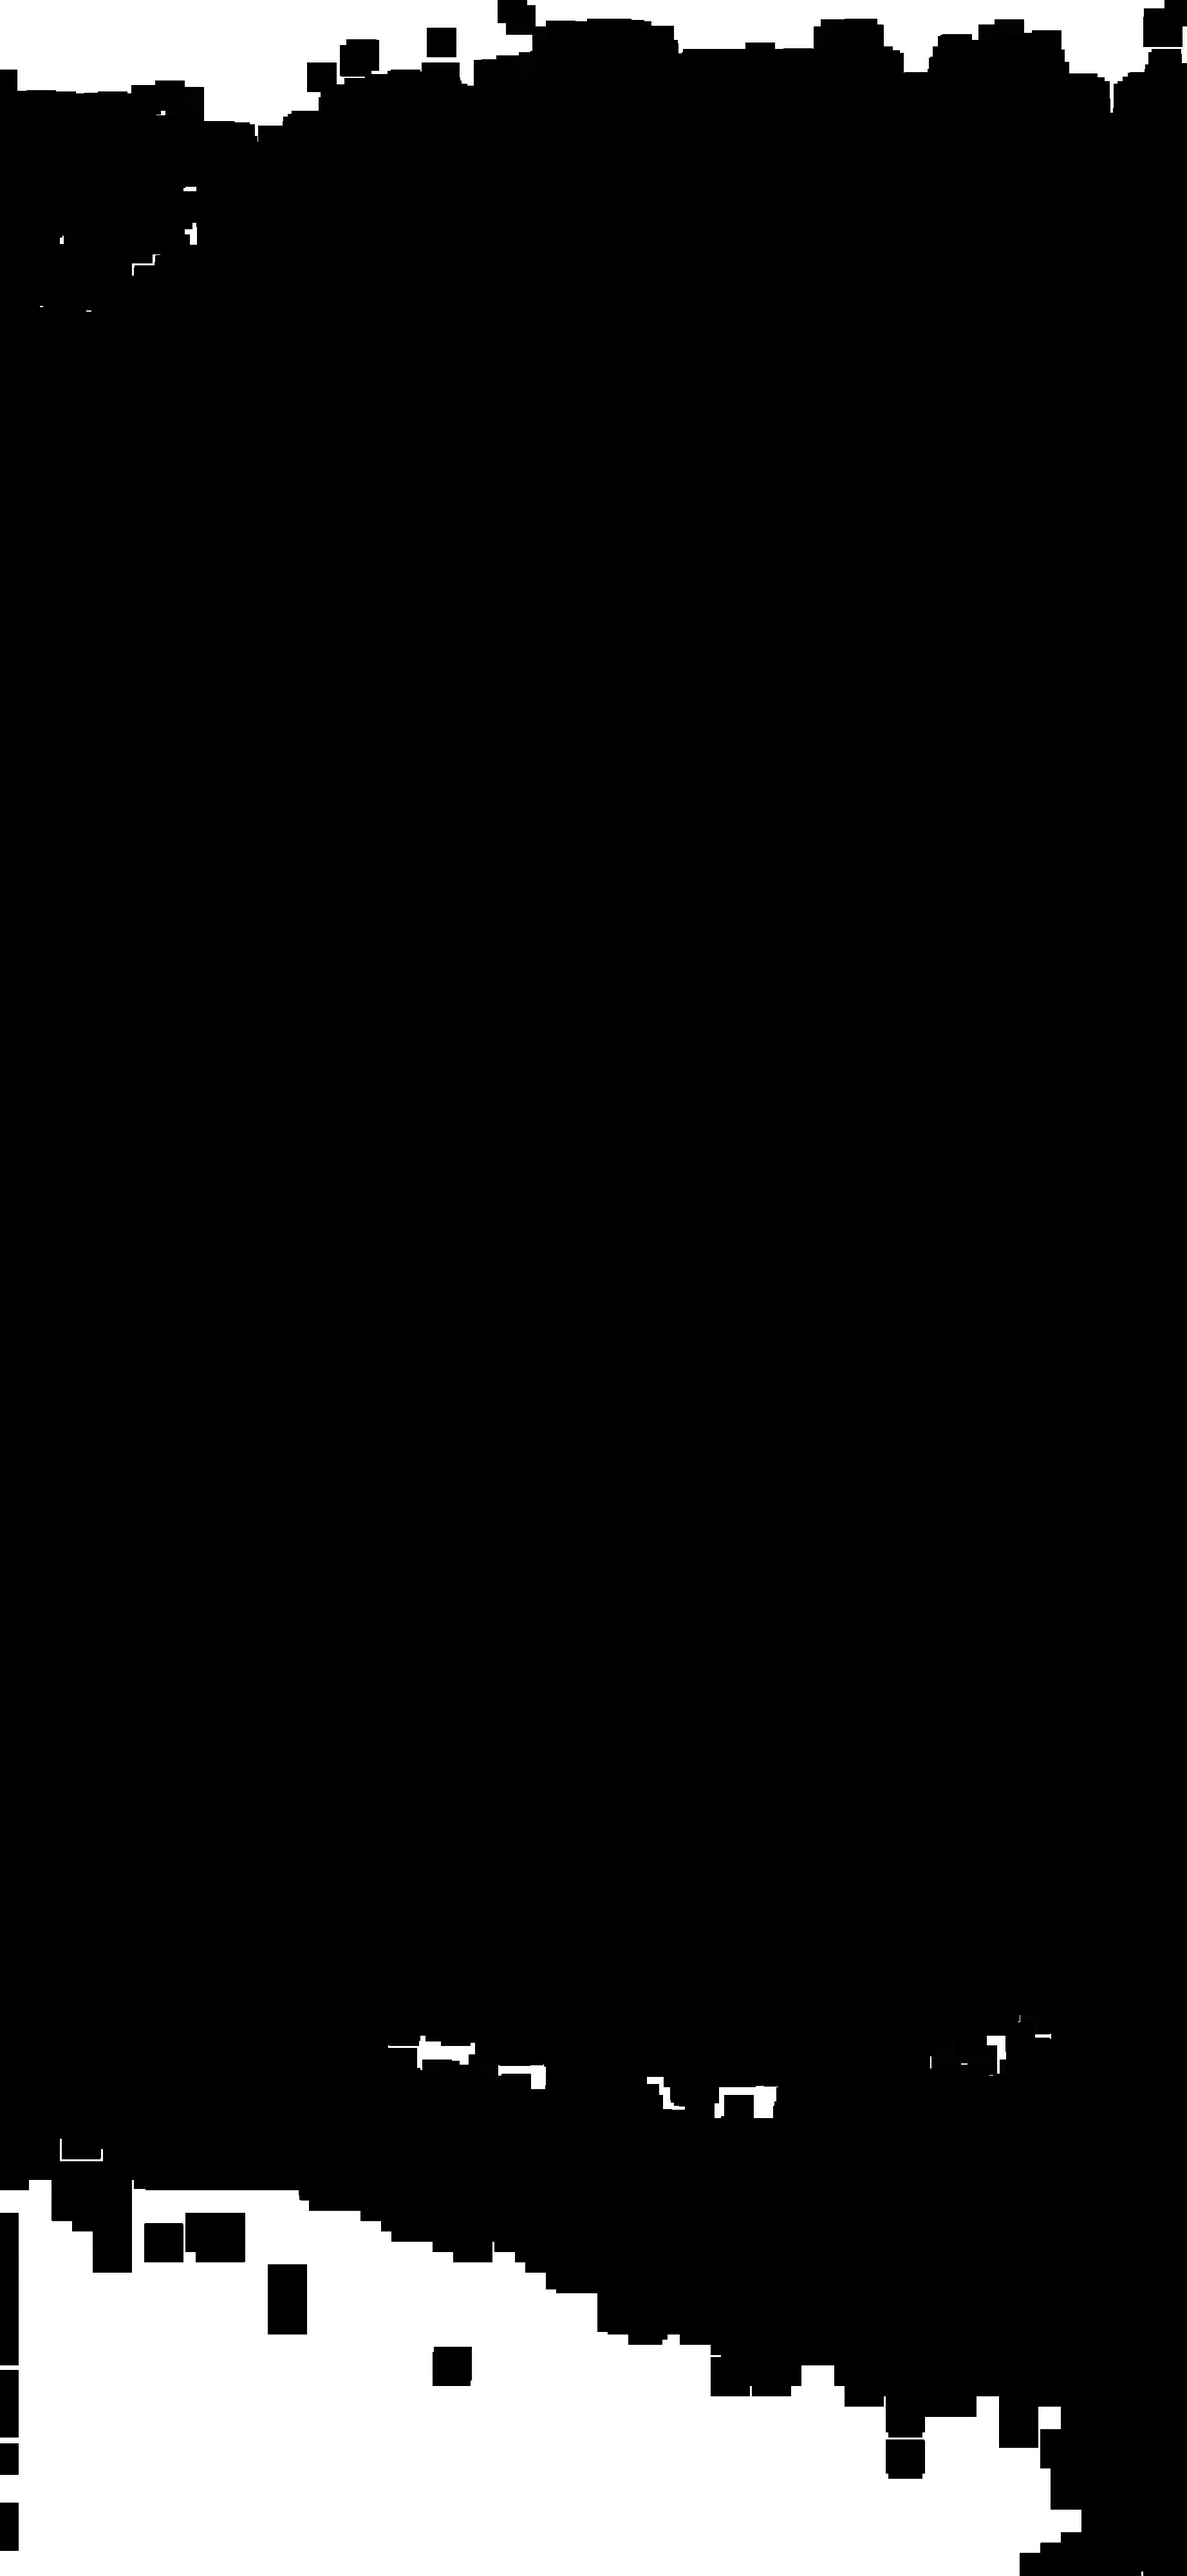
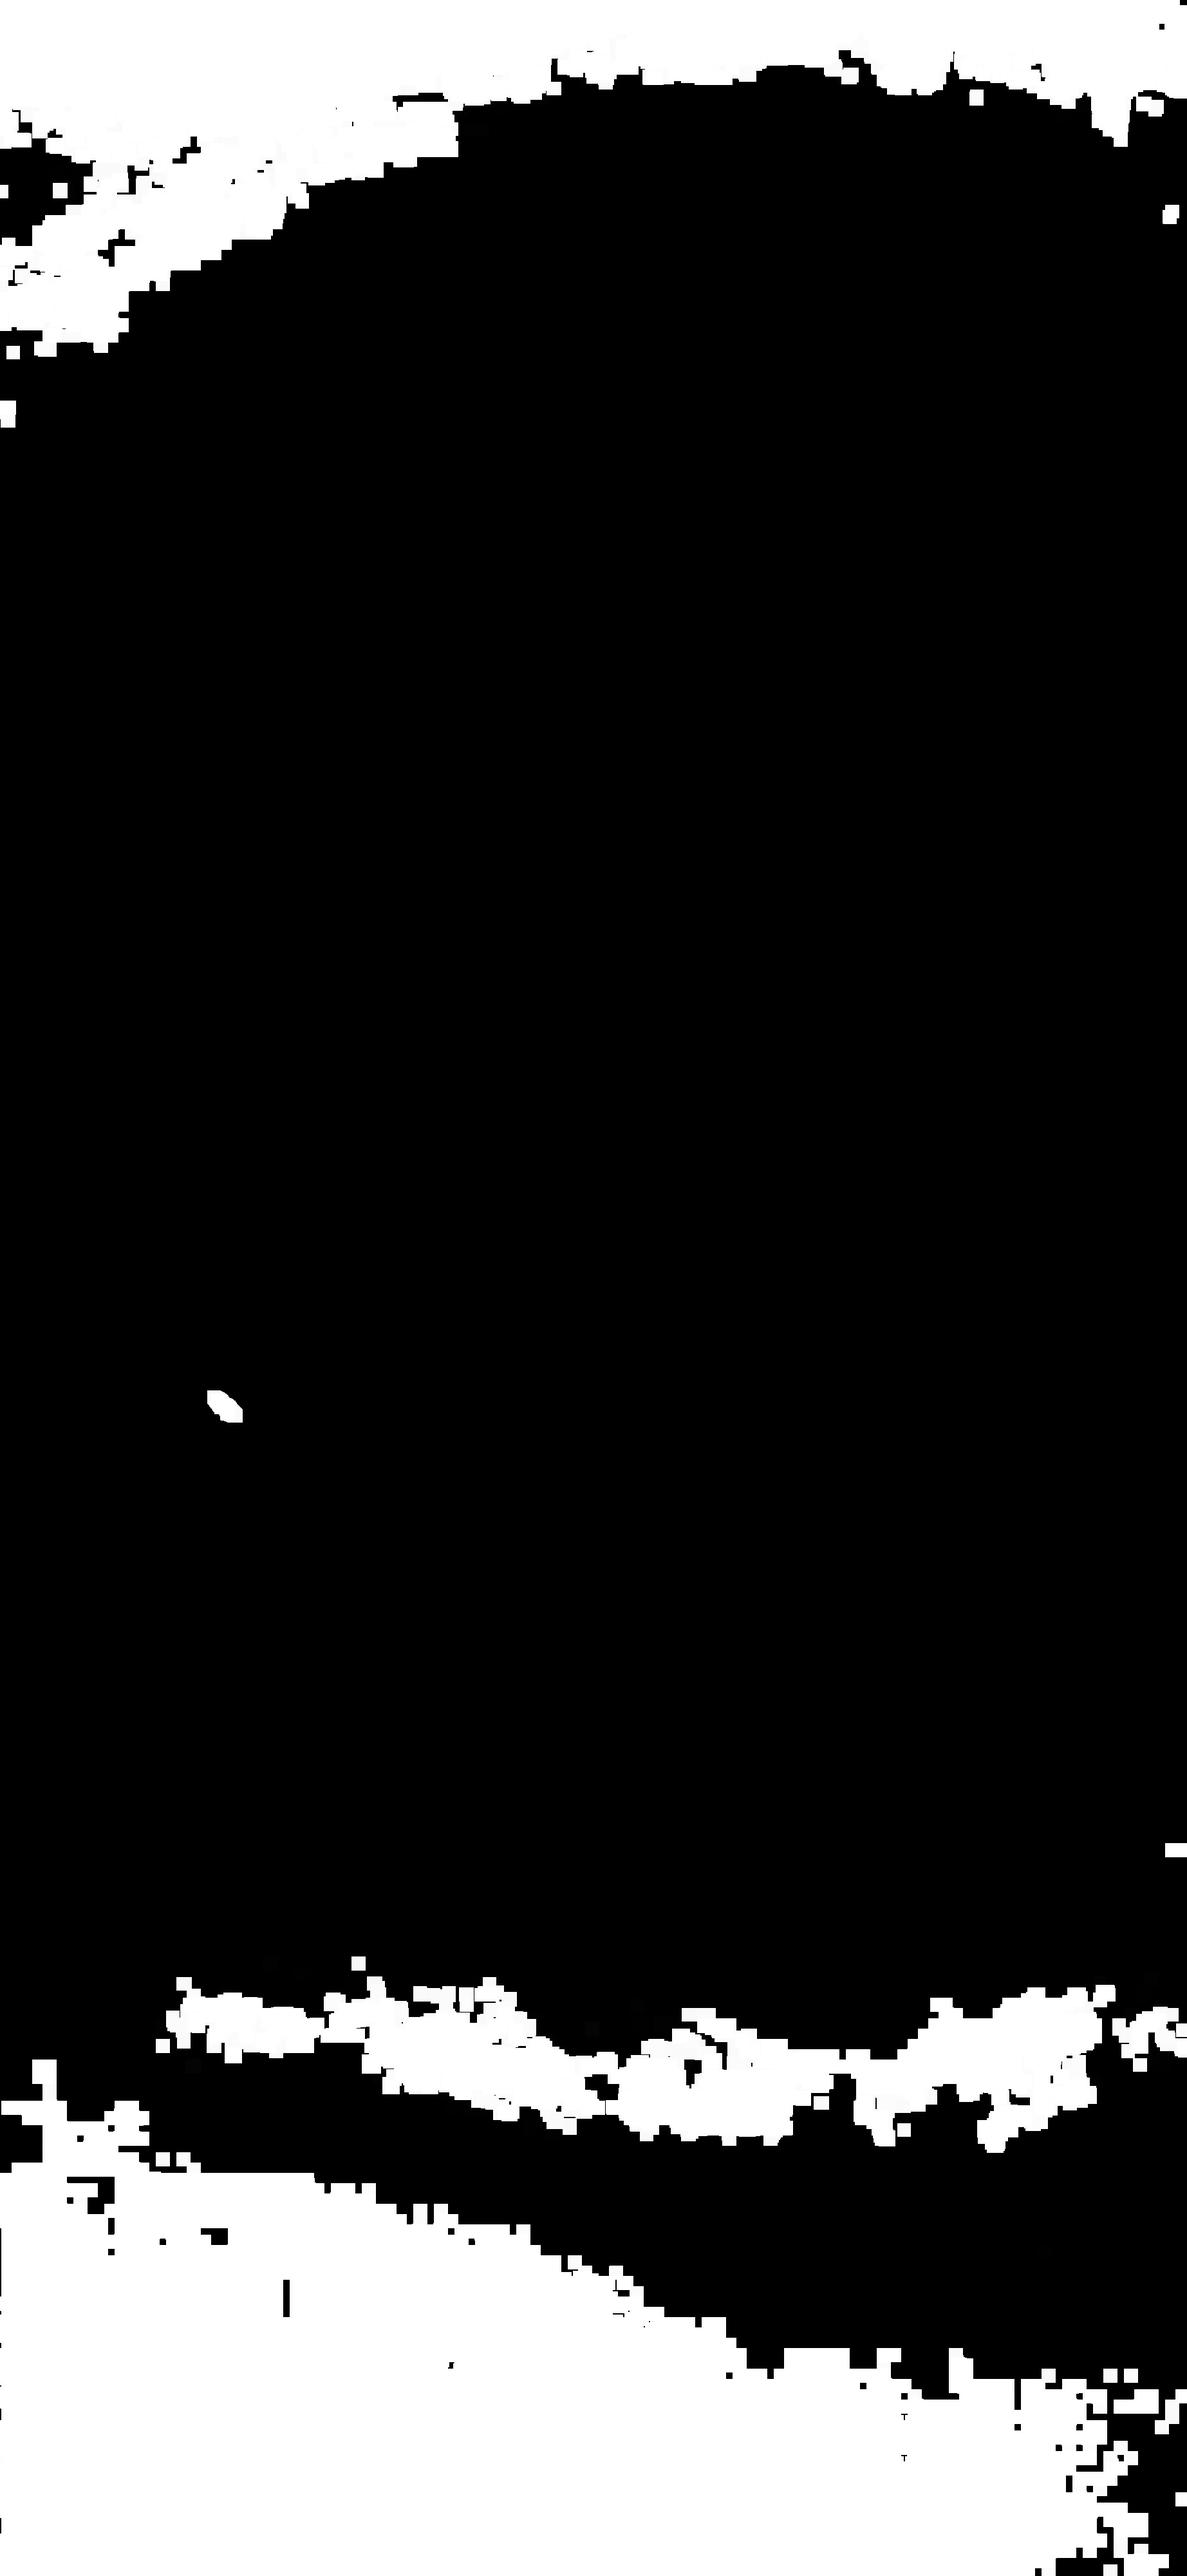
mask is ready

diff --git a/src/preprocessor/main.py b/src/preprocessor/main.py
@@ -62,11 +62,13 @@ def get_full_img_binary(gray):
 	cv2.THRESH_BINARY)[1]
     return only_dust_img_binary
 
-def erode(dustful_img):
-    kernel = np.ones((10, 10), np.uint8)
-    eroded = cv2.erode(dustful_img, kernel, iterations = 5)
-    show("erosion", eroded)
-    cv2.imwrite("../images/output/bdds.jpg", eroded)
+def erode(dustful_img, kernelsize = 8, iterations = 2):
+    kernel = np.ones((kernelsize, kernelsize), np.uint8)
+    return cv2.erode(dustful_img, kernel, iterations = iterations)
+
+def dilate(eroded, kernelsize = 3, iterations = 10):
+    kernel = np.ones((kernelsize, kernelsize),np.uint8)
+    return cv2.dilate(eroded,kernel,iterations = iterations)
 
 
 
@@ -79,12 +81,54 @@ def main():
     cv2.imwrite(full_img_binary, full_img_binary_img)
     asds_mask = cv2.imread('../images/output/asds_thresh.jpg')
     asds_mask = cv2.cvtColor(asds_mask, cv2.COLOR_BGR2GRAY)
+    show("asds_mask", asds_mask)
     dustful = cv2.bitwise_or(full_img_binary_img, asds_mask, asds_mask)
     show("dustful", dustful)
     dustful = cv2.bitwise_not(dustful)
     cv2.imwrite("../images/output/bdsdds.jpg", dustful)
-    erode(dustful)
+
+
     # infill = inpainting(bssdds, asds_mask)
+
+    ## morphological operations on bdds
+    eroded = erode(dustful)
+    show("erosion", eroded)
+    cv2.imwrite("../images/output/bdds_eroded.jpg", eroded)
+
+    bdds_dilated = dilate(eroded)
+    show("dilation", bdds_dilated)
+    cv2.imwrite("../images/output/bdds.jpg", bdds_dilated)
+
+
+    ## remove noise from asds_mask
+    asds_mask = cv2.imread('../images/output/asds_thresh.jpg')
+    show("asds_mask", asds_mask)
+    eroded = erode(asds_mask, kernelsize=6, iterations=3)
+    show("erosion1", eroded)
+    cv2.imwrite("../images/output/asds_mask_eroded.jpg", eroded)
+
+    dilated = dilate(eroded, kernelsize=6, iterations=8)
+    show("dilation1", dilated)
+    cv2.imwrite("../images/output/asds_mask_dilated.jpg", dilated)
+
+    asds_mask_clean = cv2.bitwise_and(asds_mask, dilated, asds_mask)
+    show("asds_mask_clean", asds_mask_clean)
+    cv2.imwrite("../images/output/asds_mask_clean.jpg", asds_mask_clean)
+
+    ## club asds_mask_clean and bdds and form bddsas mask 
+    print("asds", asds_mask_clean.shape, bdds_dilated.shape)
+    asds_mask_clean_gray = cv2.cvtColor(asds_mask_clean, cv2.COLOR_BGR2GRAY)
+    bddsas_mask = cv2.bitwise_or(asds_mask_clean_gray, bdds_dilated, bdds_dilated)
+    show("bddsas_mask", bddsas_mask)
+    cv2.imwrite("../images/output/bddsas_mask.jpg", bddsas_mask)
+
+
+    ## use bddsas mask to create final dirtless image.
+
+
+
+
+    
 
     
 
